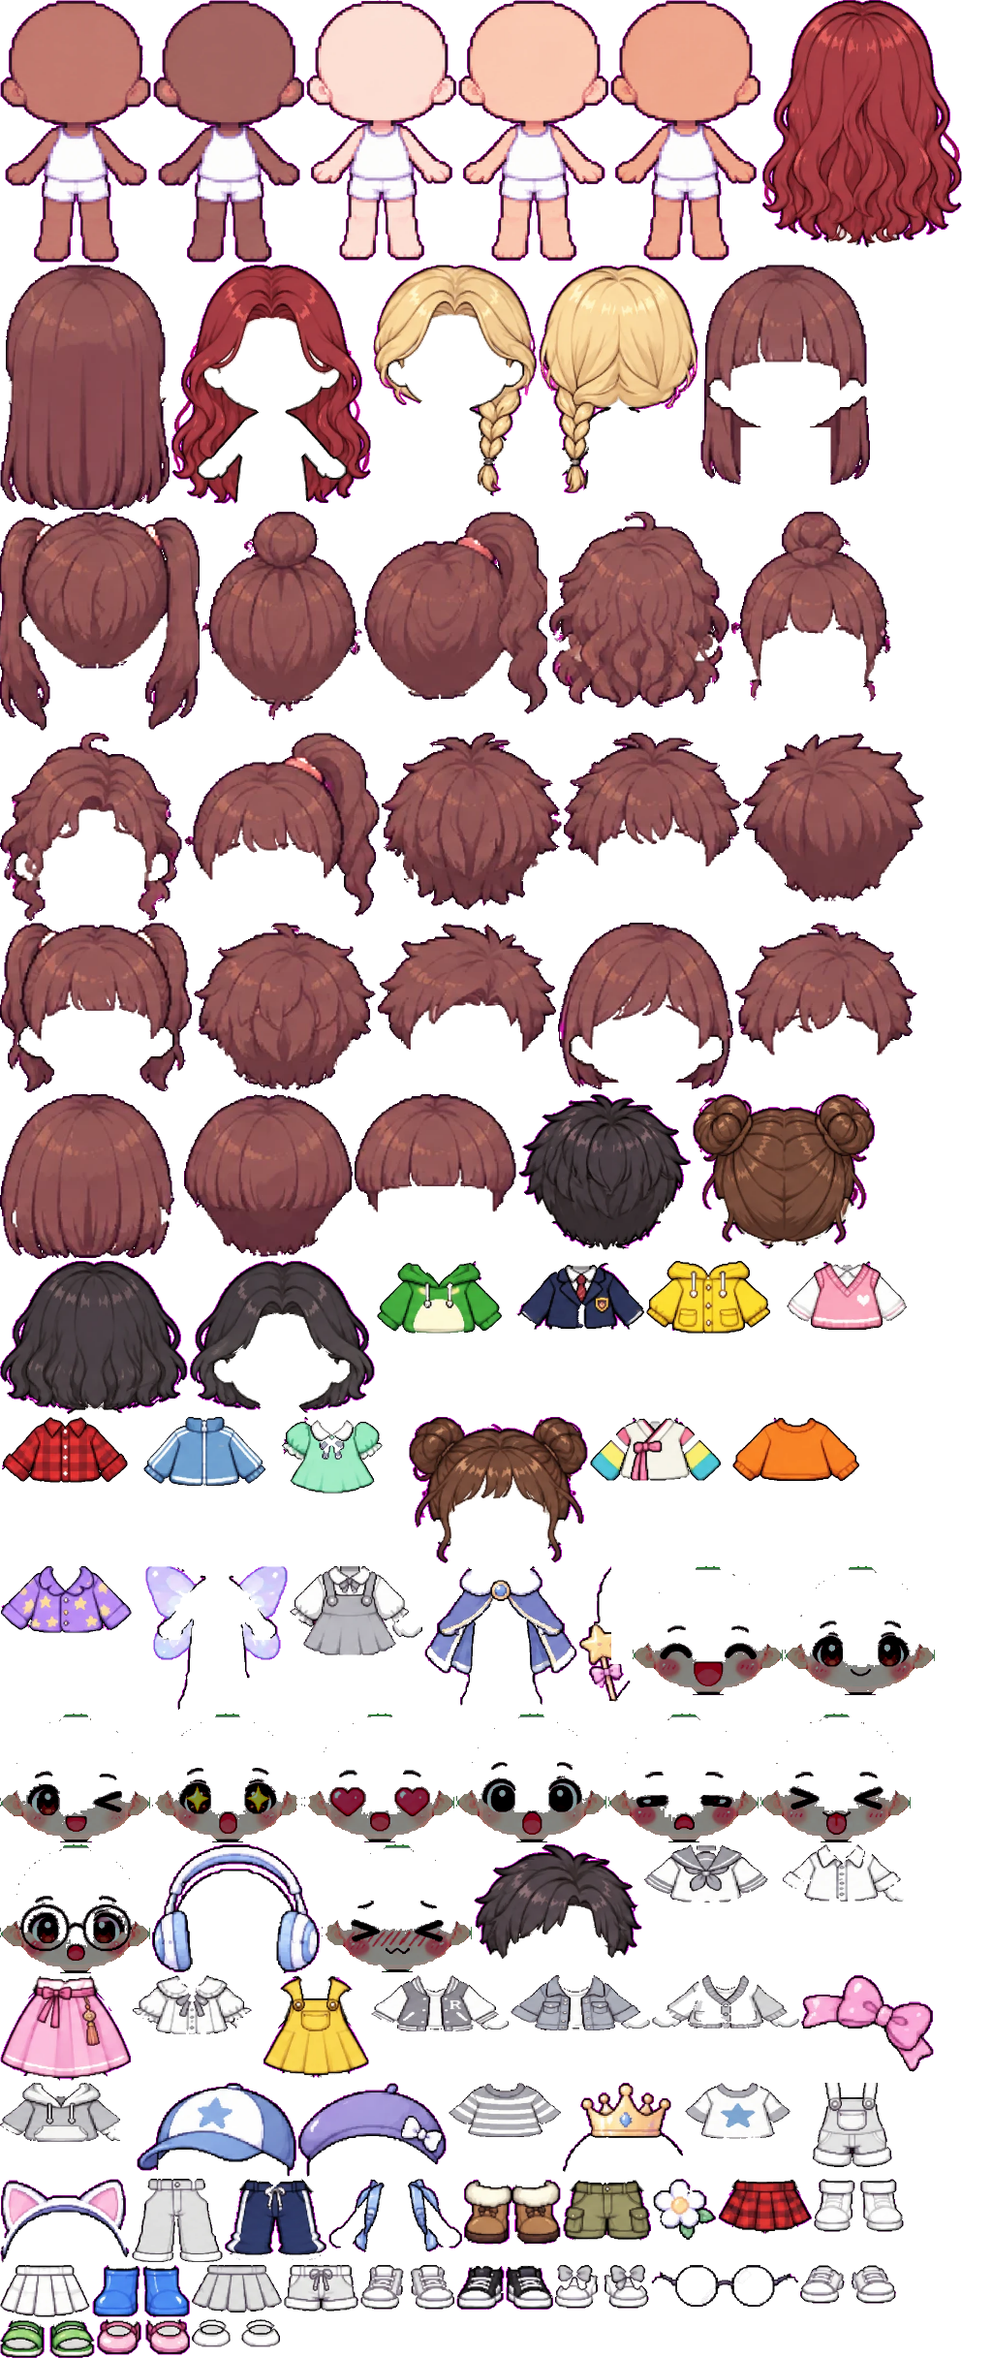
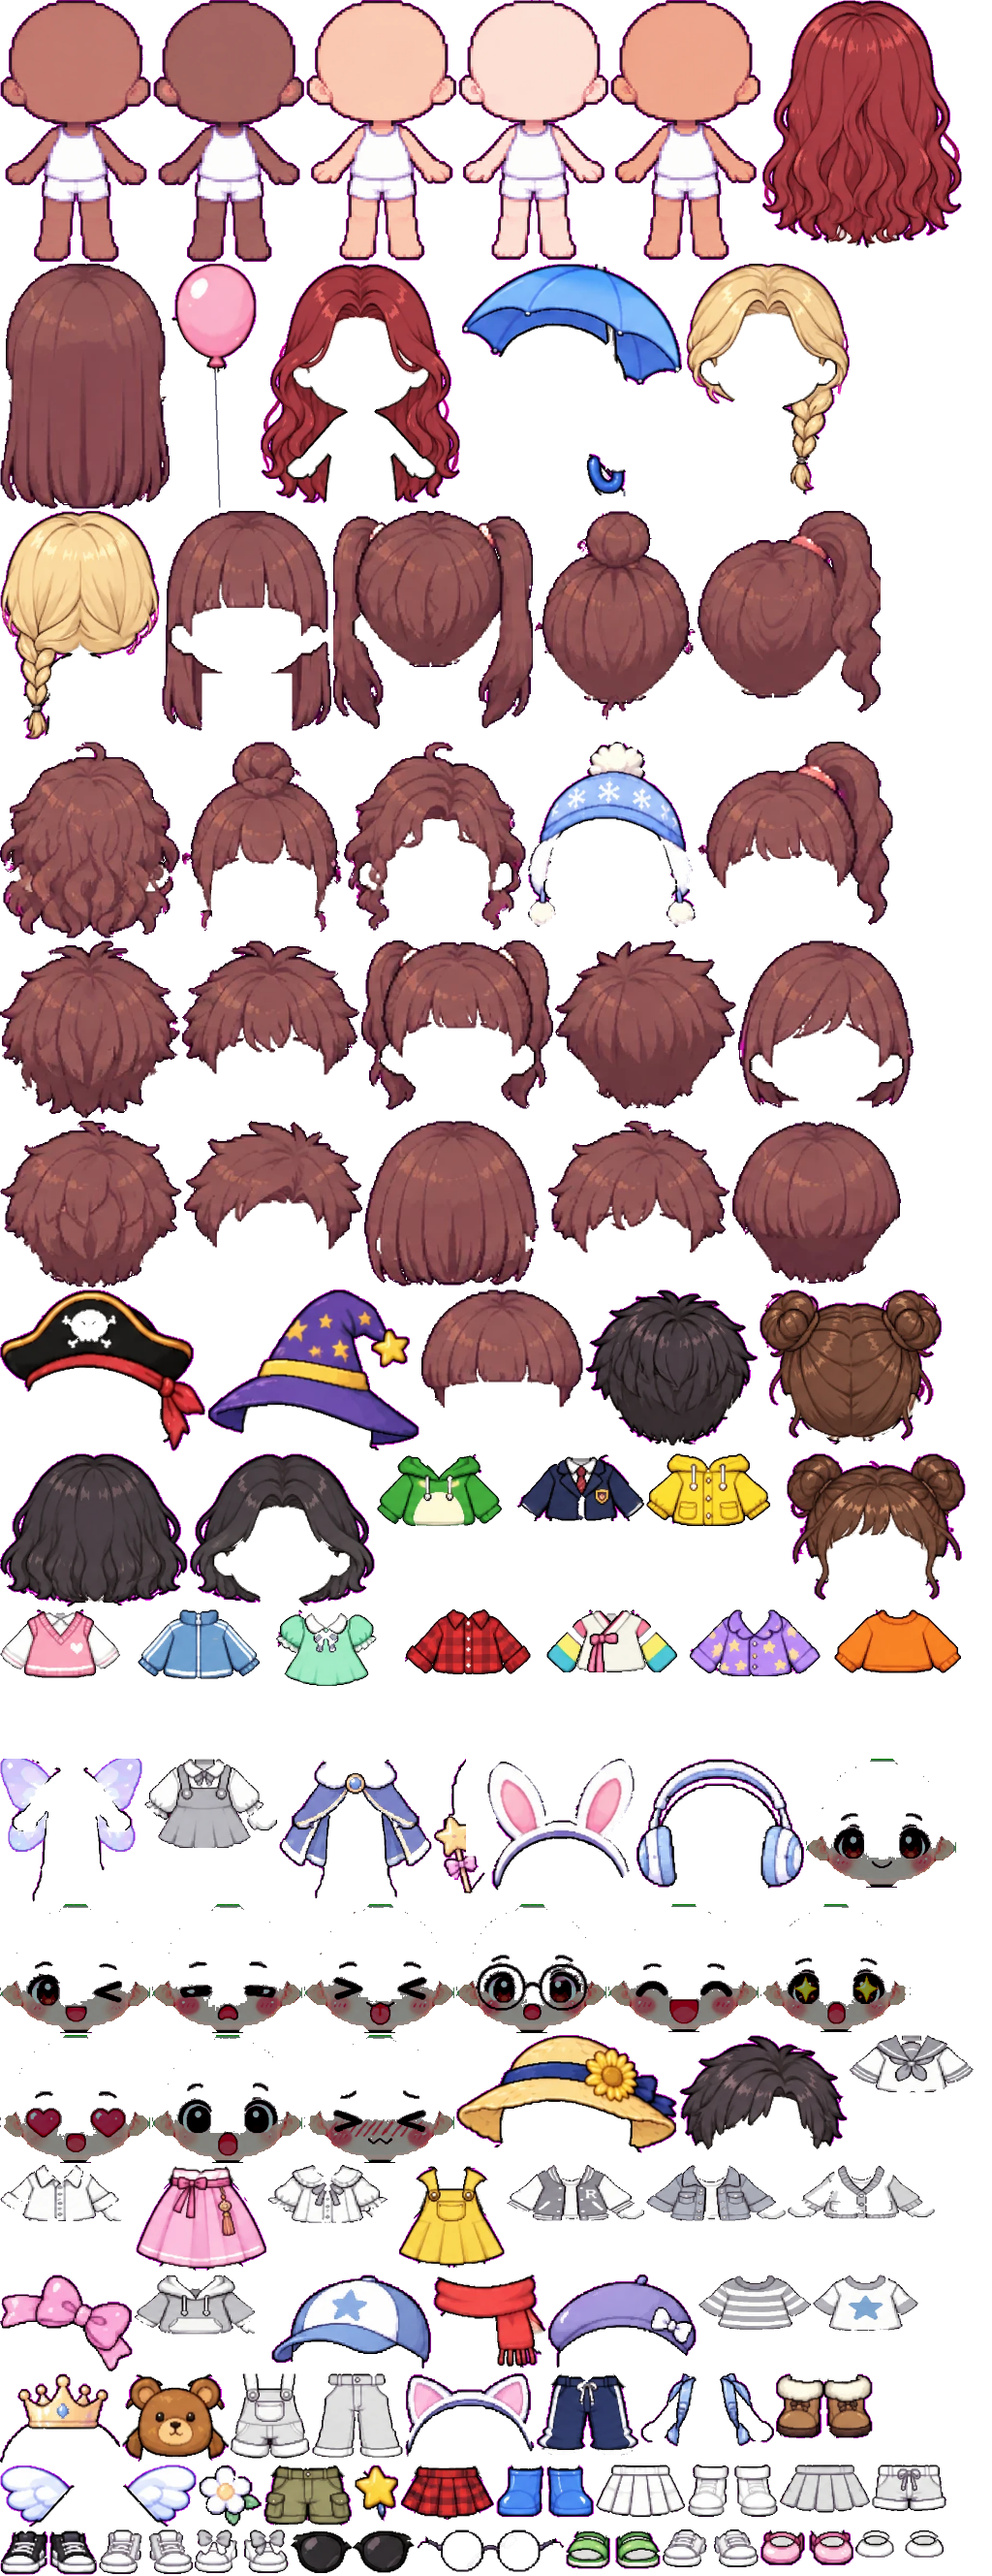
꼬마 탐험대: 모자·소품 12가지 추가 (모두 24가지)
- 밀짚모자·방울 털모자·해적 모자·마법사 모자·토끼 머리띠·별 핀·선글라스·빨간 목도리·곰돌이 가방·천사 날개·파란 우산·분홍 풍선
- 목도리 자리(neck) 추가, 천사 날개는 몸 뒤에. 가는 우산대·풍선 줄은 다시 그려 넣음
- 해적·마법사 모자, 토끼 머리띠, 천사 날개, 우산, 풍선은 열쇠로 산다. sw v26, README

Claude-Session: https://claude.ai/code/session_01GaQn7MZBC3k4EEX7cEU7Dz

diff --git a/study/kkoma-park/app.js b/study/kkoma-park/app.js
@@ -321,7 +321,7 @@ function startGame(how) {
 }
 
 // ---------------- 안내하는 탐험대장 토리 ----------------
-const GUIDE_LOOK = { v: 4, skin: 1, face: 0, hair: 0, top: 0, bot: 0, shoe: 0, hat: 0, pin: -1, eye: -1, back: 7, hand: -1, pet: 'none', job: 'none' }; // 야구모자 탐험대장
+const GUIDE_LOOK = { v: 4, skin: 1, face: 0, hair: 0, top: 0, bot: 0, shoe: 0, hat: 0, pin: -1, eye: -1, neck: -1, back: 7, hand: -1, pet: 'none', job: 'none' }; // 야구모자 탐험대장
 function guideLines() {
   return [
     ['👋', `안녕, ${me.name}! 나는 꼬마 탐험대의 대장, 토리야. 꼬마 탐험대 공원에 온 걸 환영해!`],

diff --git a/study/kkoma-park/sw.js b/study/kkoma-park/sw.js
@@ -1,7 +1,7 @@
 // 앱 파일을 기기에 담아 두어 인터넷이 없어도 열리게 한다.
 // 3D 엔진·연결 프로그램·주아체 글꼴은 vendor/ 에 있다. 글꼴 조각과 튼튼 운동장의 몸 인식 엔진은 처음 쓸 때 담아 둔다.
 const PREFIX = 'yeolsoe-';
-const CACHE = `${PREFIX}v25`;
+const CACHE = `${PREFIX}v26`;
 const FILES = [
   './',
   './index.html',

diff --git a/study/kkoma-park/README.md b/study/kkoma-park/README.md
@@ -7,7 +7,7 @@
 
 ## 어떻게 놀아요?
 
-1. 별명과 학년을 고르고, **나만의 픽셀아트 캐릭터를 만들어요**: 피부색 5 · 얼굴 표정 10 · 머리 스타일 15 · 윗옷 20 · 아래옷 10 · 신발 10 · 모자와 소품 12 가지를 골라 입혀요. 옷과 머리는 저마다 색이 입혀진 완성 그림이에요 (같이 다니는 친구·직업 배지도 골라요). 캐릭터를 누르면 앞·옆·뒷모습을 볼 수 있고, 마을에서는 걷는 방향에 따라 옆모습·뒷모습이 돼요.
+1. 별명과 학년을 고르고, **나만의 픽셀아트 캐릭터를 만들어요**: 피부색 5 · 얼굴 표정 10 · 머리 스타일 15 · 윗옷 20 · 아래옷 10 · 신발 10 · 모자와 소품 24 가지를 골라 입혀요. 옷과 머리는 저마다 색이 입혀진 완성 그림이에요 (같이 다니는 친구·직업 배지도 골라요). 캐릭터를 누르면 앞·옆·뒷모습을 볼 수 있고, 마을에서는 걷는 방향에 따라 옆모습·뒷모습이 돼요.
 2. 가운데 **분수 광장 섬**에서 출발해 나무다리를 건너 각 섬으로 가요. 반짝이는 문으로 들어가면 건물 안 놀이방에서 동물 친구가 반겨 줘요. 오른쪽 위 **작은 지도**에서 건물 그림을 누르면 그 건물 앞으로 바로 가요.
 3. 놀이방마다 **보물 상자 3개**의 문제를 풀면 🗝 **열쇠**가 나타나요.
    - 처음 깬 건물은 **탐험 수첩에 도장**이 찍혀요.
